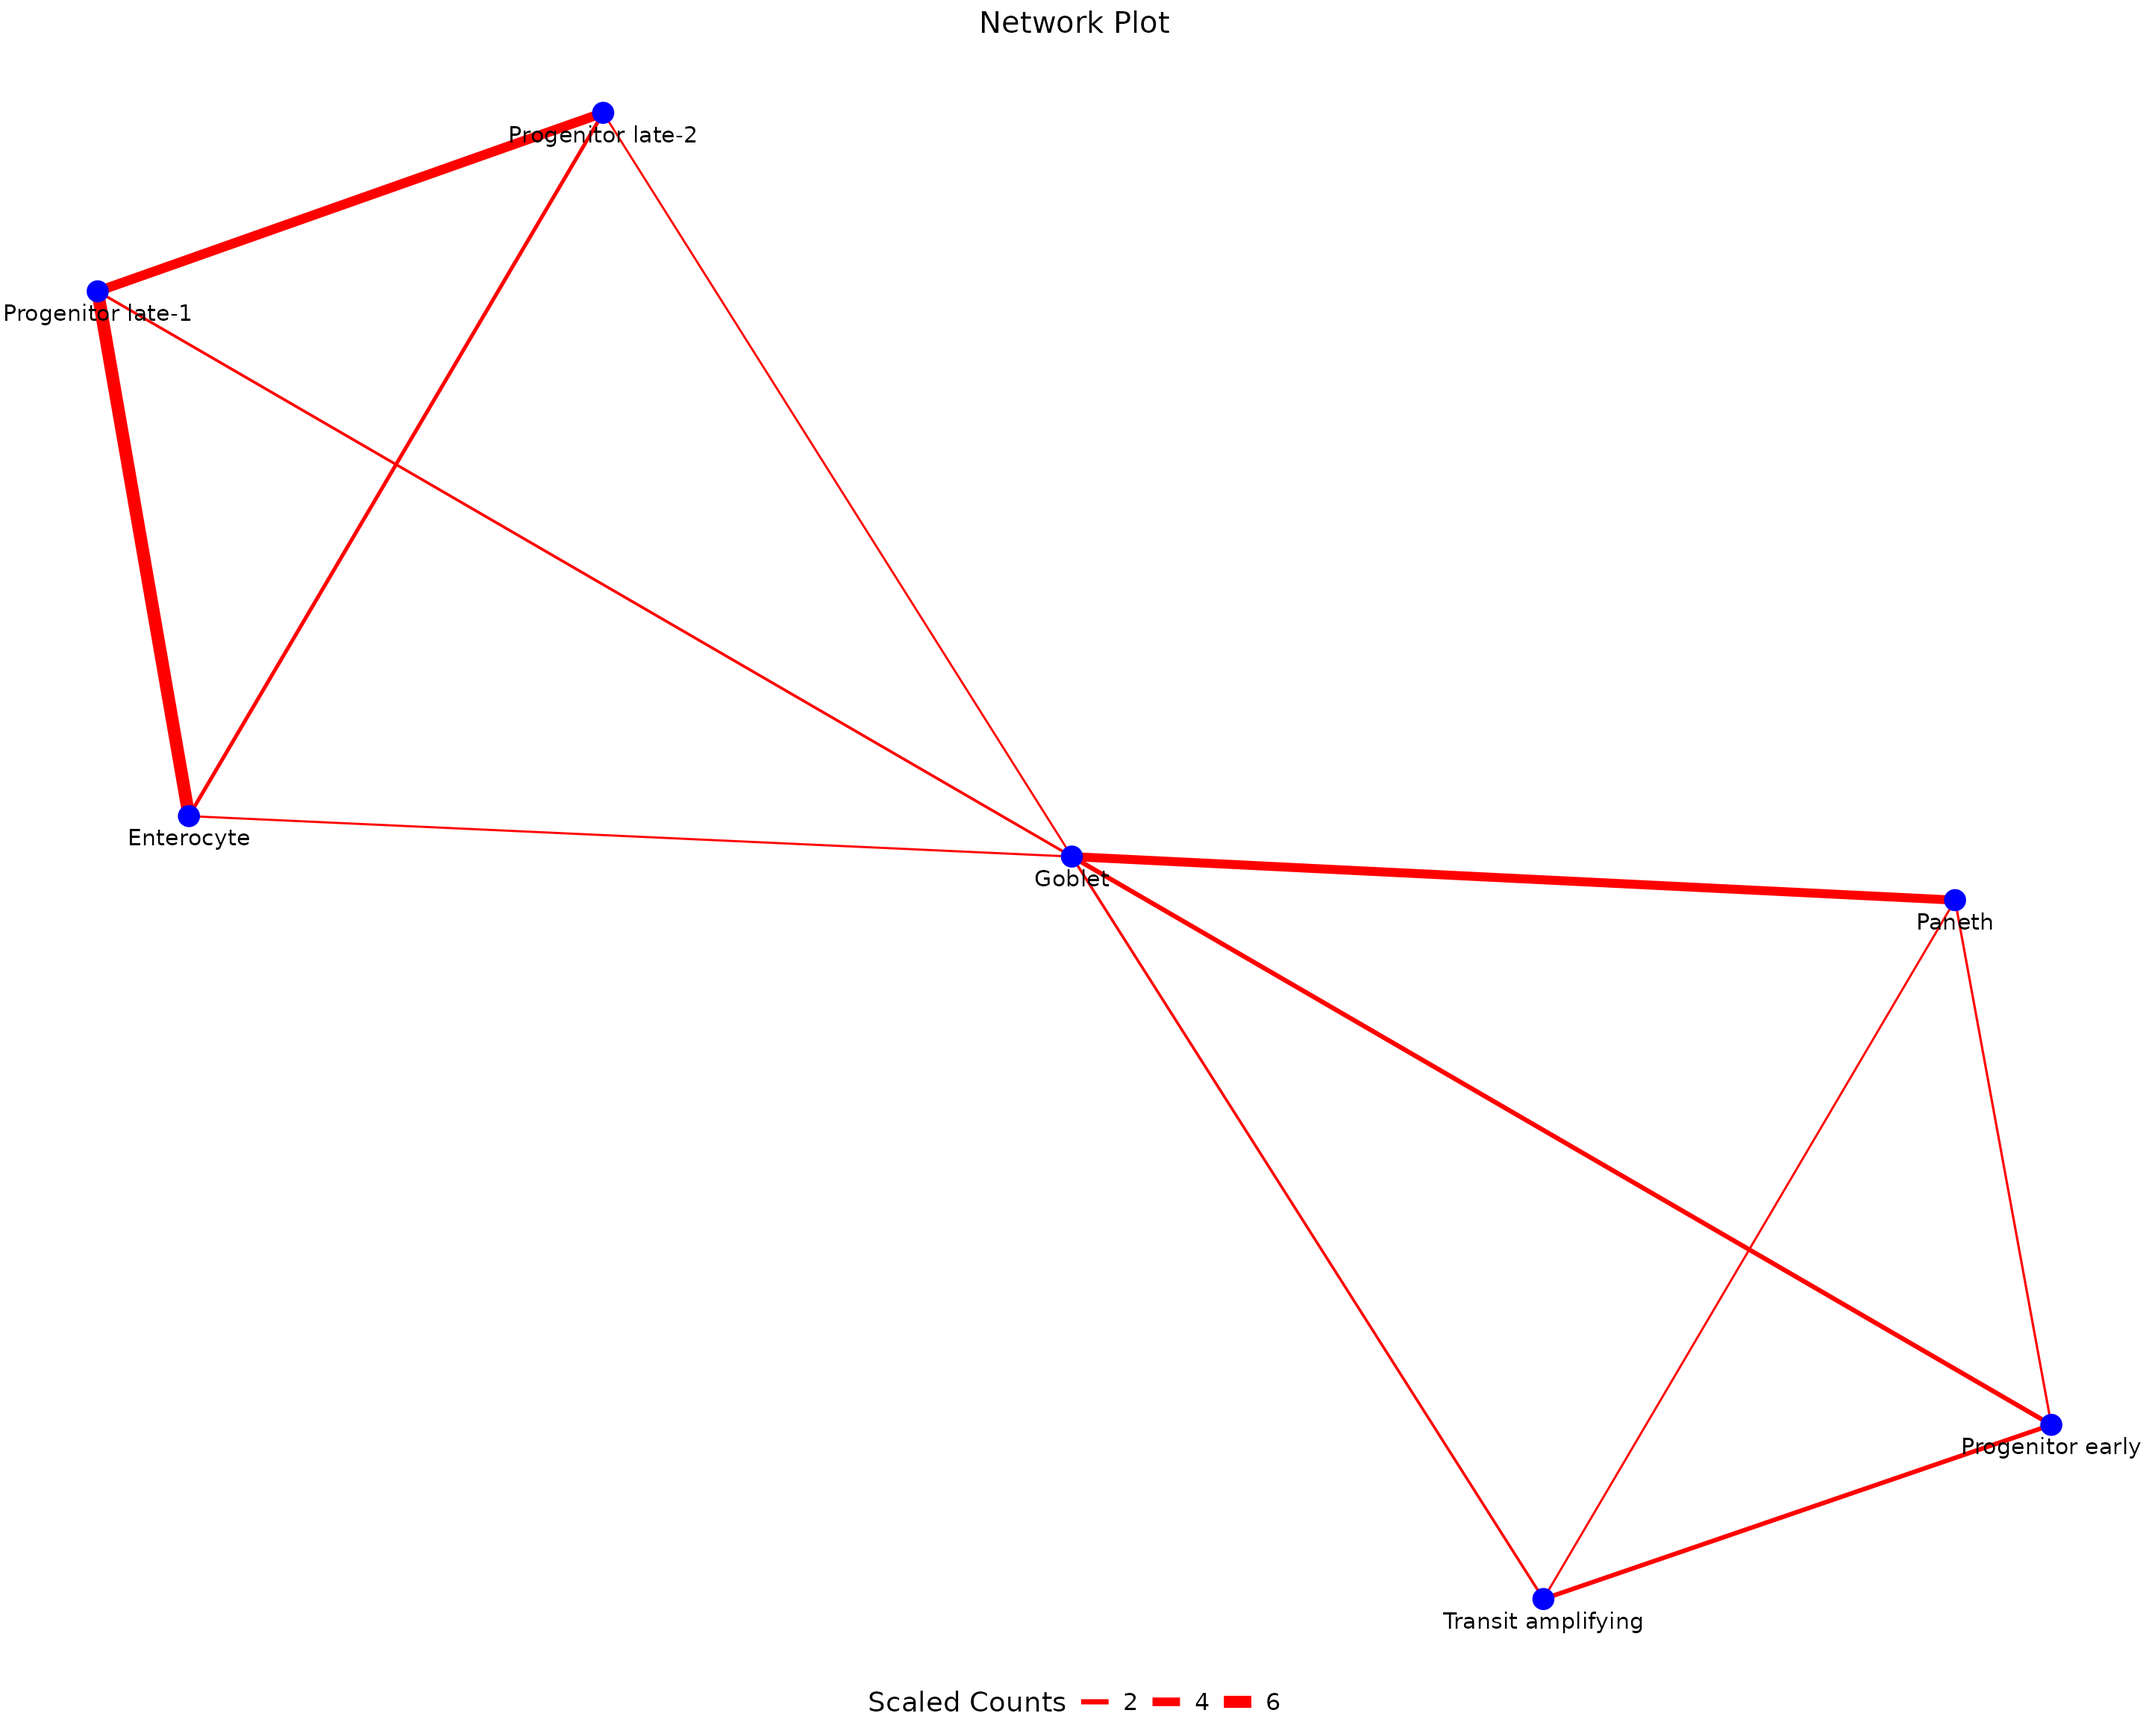
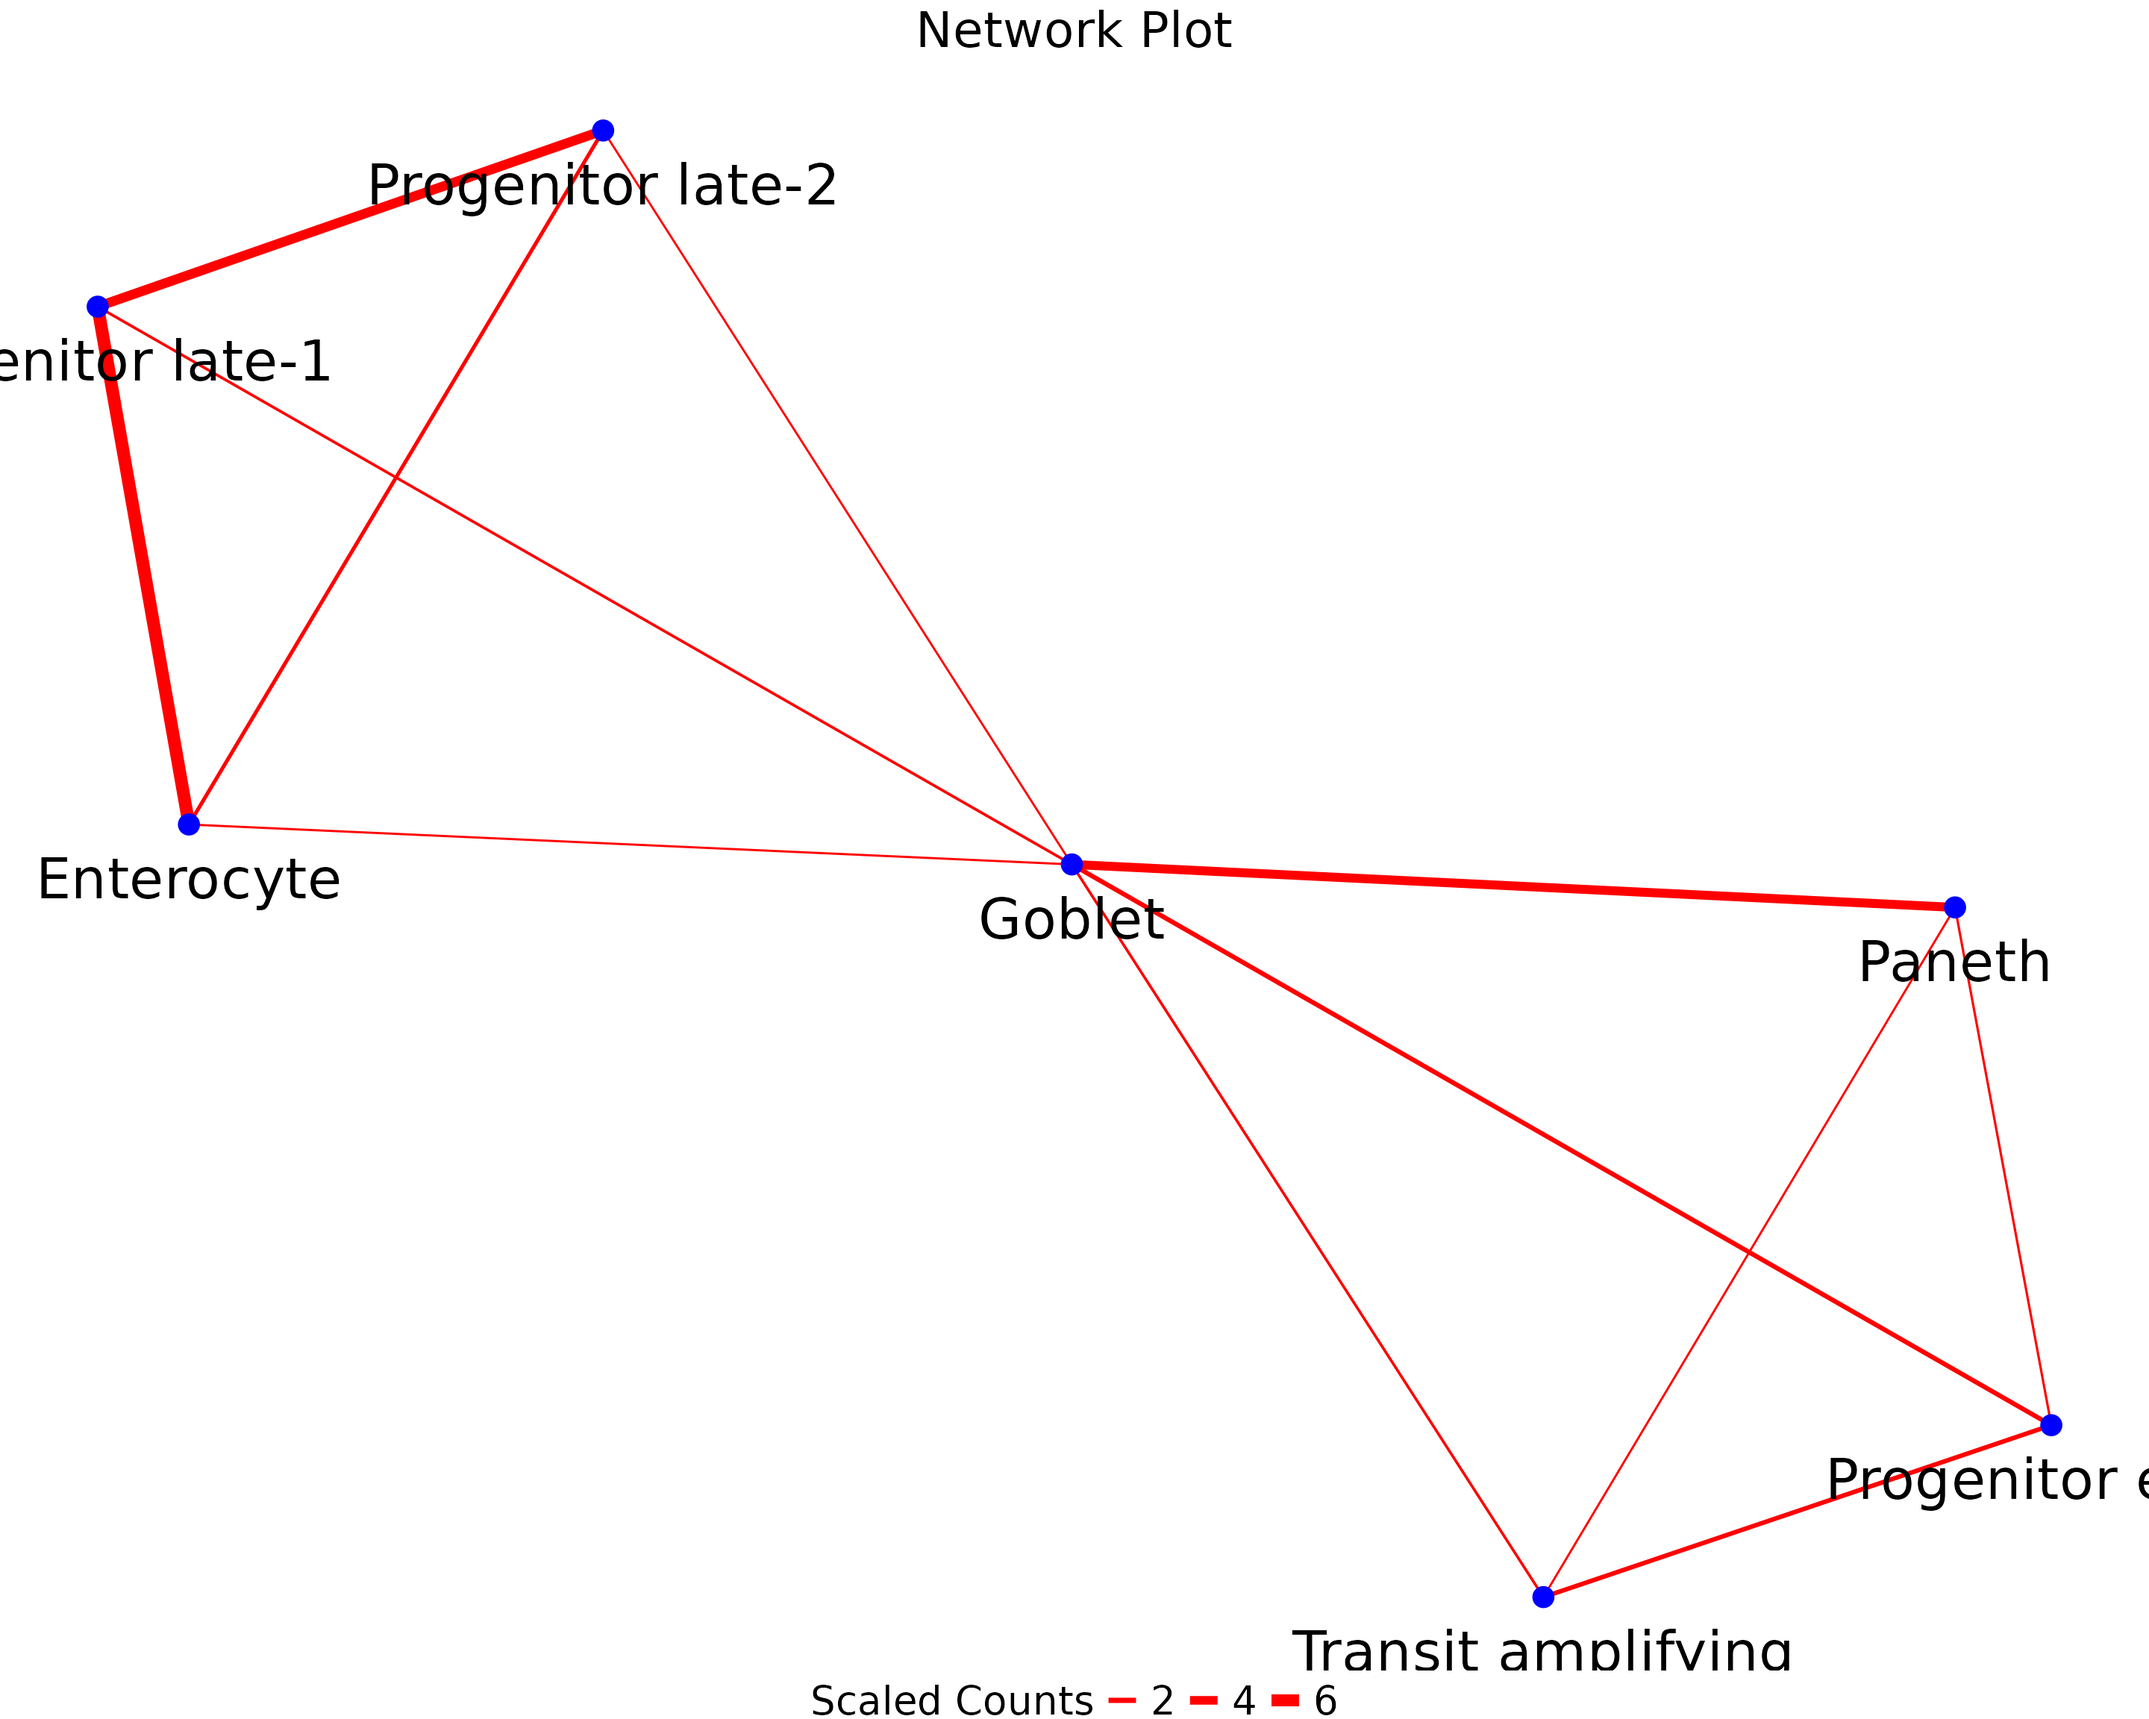
Deploying to gh-pages from @ Sidex71/ULM@04c05e203143b81f3c0d8976b3d5ec456a3fc3e6 🚀

diff --git a/index.html b/index.html
@@ -69,7 +69,7 @@
 <span><span class="op">}</span></span>
 <span><span class="kw"><a href="https://rdrr.io/r/base/library.html" class="external-link">library</a></span><span class="op">(</span><span class="va"><a href="https://devtools.r-lib.org/" class="external-link">devtools</a></span><span class="op">)</span></span>
 <span></span>
-<span><span class="co">#devtools::install_github("Sidex71/ULM", build_vignettes = T)</span></span></code></pre></div>
+<span><span class="fu">devtools</span><span class="fu">::</span><span class="fu">install_github</span><span class="op">(</span><span class="st">"Sidex71/ULM"</span>, build_vignettes <span class="op">=</span> <span class="cn">T</span><span class="op">)</span></span></code></pre></div>
 </div>
 <div class="section level2">
 <h2 id="example">Example<a class="anchor" aria-label="anchor" href="#example"></a>
@@ -108,6 +108,7 @@
 <span><span class="va">my_node_df</span> <span class="op">&lt;-</span> <span class="fu"><a href="reference/GetNodeDF.html">GetNodeDF</a></span><span class="op">(</span>mat <span class="op">=</span> <span class="va">multSummaryFilt</span><span class="op">)</span></span>
 <span><span class="fu"><a href="reference/PlotNetwork.html">PlotNetwork</a></span><span class="op">(</span><span class="va">my_node_df</span><span class="op">)</span></span></code></pre></div>
 <p><img src="reference/figures/README-example-1.png" width="100%"></p>
+<p>A more comprehensive guide on the usage of the ULM package can be found in the following link <a href="https://sidex71.github.io/ULM/articles/ULM-vignette.html" class="uri">https://sidex71.github.io/ULM/articles/ULM-vignette.html</a></p>
 </div>
 </div>
   </main><aside class="col-md-3"><div class="links">

diff --git a/articles/ULM-vignette.html b/articles/ULM-vignette.html
@@ -624,7 +624,7 @@ summary table</p>
 <code class="sourceCode R"><span><span class="va">query_network_df</span> <span class="op">&lt;-</span> <span class="fu"><a href="../reference/GetNodeDF.html">GetNodeDF</a></span><span class="op">(</span>mat <span class="op">=</span> <span class="va">query_multSummaryFilt</span><span class="op">)</span></span></code></pre></div>
 <p>Plotting query cell-cell interaction network</p>
 <div class="sourceCode" id="cb37"><pre class="downlit sourceCode r">
-<code class="sourceCode R"><span><span class="fu"><a href="../reference/PlotNetwork.html">PlotNetwork</a></span><span class="op">(</span><span class="va">query_network_df</span><span class="op">)</span></span></code></pre></div>
+<code class="sourceCode R"><span><span class="fu"><a href="../reference/PlotNetwork.html">PlotNetwork</a></span><span class="op">(</span><span class="va">query_network_df</span>, node_text_size <span class="op">=</span> <span class="fl">10</span>, legend_text_size <span class="op">=</span> <span class="fl">20</span>, legend_title_size <span class="op">=</span> <span class="fl">20</span>, main_size <span class="op">=</span> <span class="fl">25</span><span class="op">)</span></span></code></pre></div>
 <p><img src="ULM-vignette_files/figure-html/unnamed-chunk-38-1.png" width="1440" style="display: block; margin: auto auto auto 0;"></p>
 <p>THE END</p>
 <p>Reference</p>
